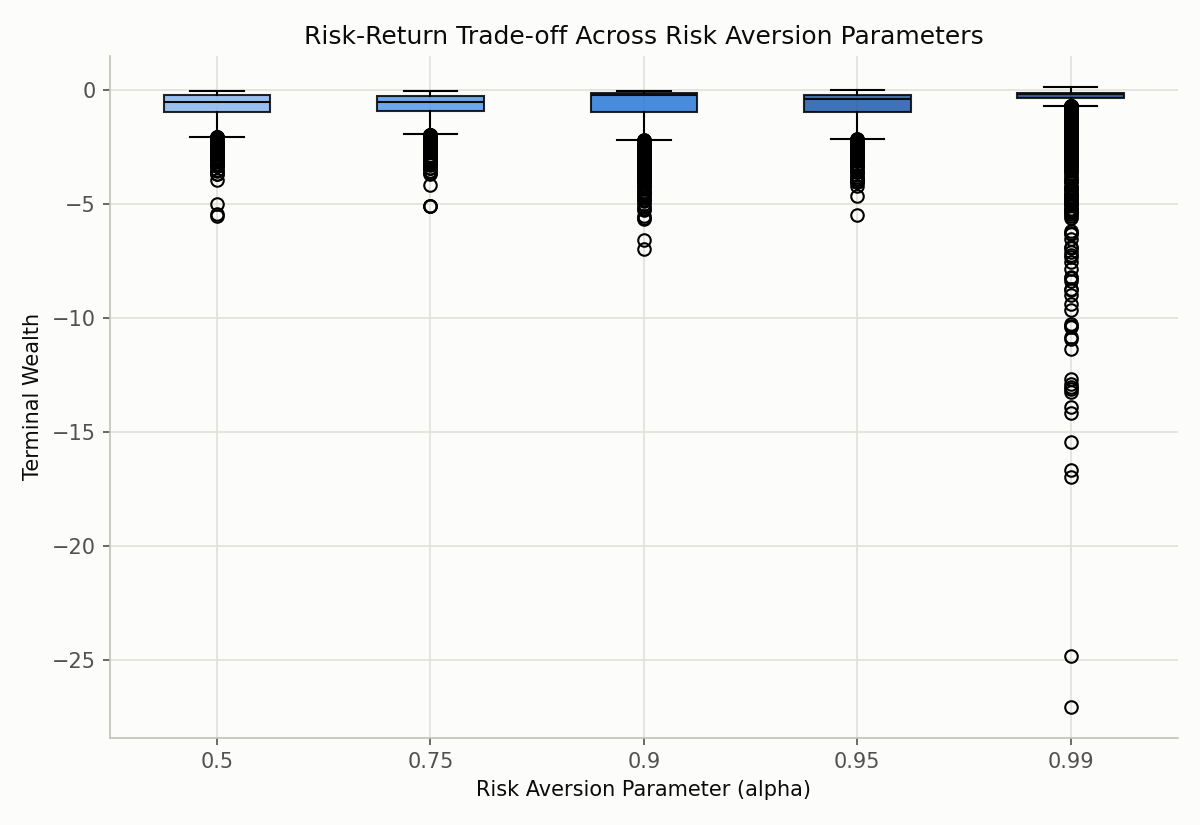
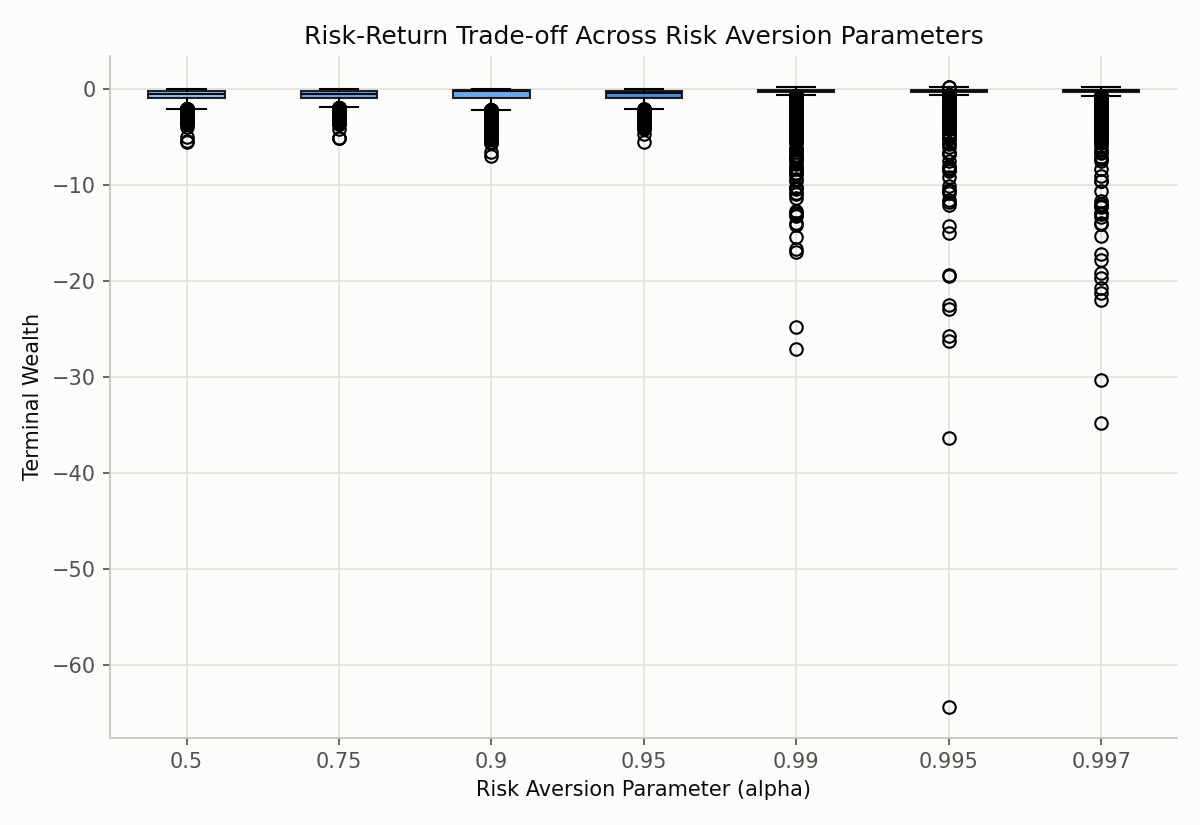
Extend alpha sweep to the paper's Part II grid (0.995, 0.997)
The paper's Part II tests risk aversion at alpha in {0.5, 0.75, 0.99,
0.995, 0.997}; this repo's sweep stopped at 0.99 and never exercised the
two most extreme levels. Trained two more MLP alpha-sweep checkpoints and
extended evaluate.py's sweep_alphas accordingly.

Claude-Session: https://claude.ai/code/session_01TiJ493H6ozZtHPLezugwh6

diff --git a/src/backtester/evaluate.py b/src/backtester/evaluate.py
@@ -323,7 +323,7 @@ def _plot_alpha_sweep_boxplot(wealth_by_alpha: Dict[float, torch.Tensor], path: 
 
 def run_alpha_sweep_backtest(
     architecture: Annotated[str, "'mlp', 'rnn', 'lstm', or 'gru'"],
-    alphas: Annotated[List[float], "CVaR alphas to compare, e.g. [0.5, 0.75, 0.9, 0.95, 0.99]"],
+    alphas: Annotated[List[float], "CVaR alphas to compare, e.g. [0.5, 0.75, 0.9, 0.95, 0.99, 0.995, 0.997]"],
     strike: Annotated[float, "option strike price K"],
     batch_size: Annotated[int, "number of stress test paths"] = 2000,
     seq_len: Annotated[int, "number of price observations per path"] = 30,
@@ -549,7 +549,9 @@ if __name__ == "__main__":
 
     # Multi-alpha sweep demonstration (paper Figures 20-21): requires
     # checkpoints from `train_policy.py --architecture mlp --alpha-sweep ...`.
-    sweep_alphas = [0.5, 0.75, 0.9, 0.95, 0.99]
+    # Includes 0.995/0.997 to match the paper's own Part II alpha grid
+    # ({0.5, 0.75, 0.99, 0.995, 0.997}), alongside this repo's own 0.9/0.95.
+    sweep_alphas = [0.5, 0.75, 0.9, 0.95, 0.99, 0.995, 0.997]
     try:
         sweep_result = run_alpha_sweep_backtest(
             architecture="mlp",

diff --git a/src/policy/train_policy.py b/src/policy/train_policy.py
@@ -248,7 +248,7 @@ def main() -> None:
         type=str,
         default=None,
         help="comma-separated CVaR alphas to train separate checkpoints for "
-        "(e.g. '0.5,0.75,0.9,0.95,0.99'), overriding --cvar-alpha and --checkpoint; "
+        "(e.g. '0.5,0.75,0.9,0.95,0.99,0.995,0.997'), overriding --cvar-alpha and --checkpoint; "
         "saves to checkpoints/hedging_agent_<architecture>_alpha<alpha>.pt per value",
     )
     args = parser.parse_args()
